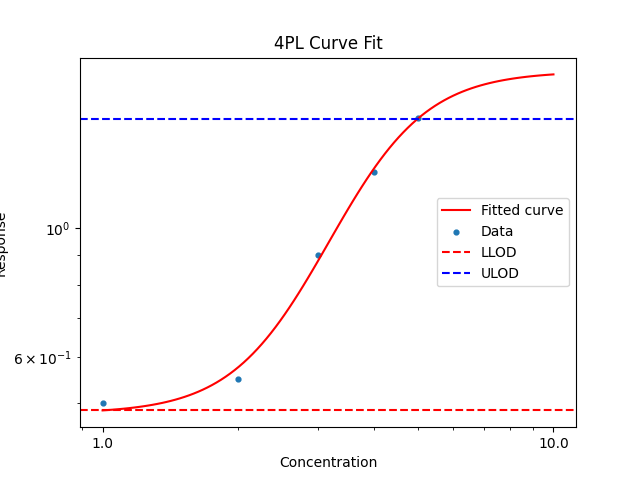
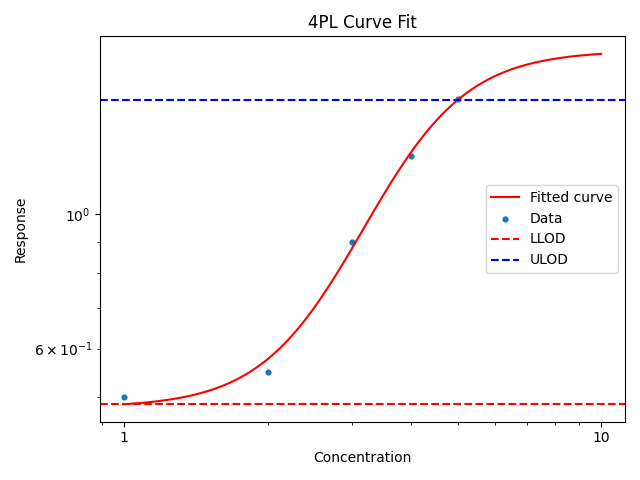
improve plot testing and readme

diff --git a/bio_curve_fit/plotting.py b/bio_curve_fit/plotting.py
@@ -1,5 +1,8 @@
 import io
+from typing import Tuple
 
+import matplotlib
+import matplotlib.figure
 import matplotlib.pyplot as plt
 import numpy as np
 import pandas as pd
@@ -27,7 +30,7 @@ def plot_standard_curve(
 
     Parameters:
     - x_data (iterable): X-axis data points.
-    - y_data (iterable): Y-axis data points corresponding to x_data.
+    - y_data (iterable | None): Y-axis data points corresponding to x_data. Can set this to None if you only want to plot the fitted curve for a given range of x-values specified in `x_data`.
     - fitted_model (BaseStandardCurve): A fitted model instance that provides prediction and LLOD/ULOD values.
     - title (str, optional): Title of the plot. Default is "Standard Curve Fit".
     - x_label (str, optional): Label for the X-axis. Default is "Concentration".
@@ -40,13 +43,70 @@ def plot_standard_curve(
     - plot_kwargs (dict, optional): General keyword arguments for further plot customizations. This can include 'title_kwargs' for title properties and 'savefig_kwargs' for savefig properties, 'formatter' for the x-axis formatter (Default is Log), and 'xscale' and 'yscale' for the plot scale (Default is 'log').
 
     Returns:
-    - bytes: A bytes object containing the plot image in PNG format.
+    - fig, ax: The matplotlib figure and axes objects.
 
     Example Usage:
-    plot_standard_curve(x_data, y_data, fitted_model, show_plot=True, curve_kwargs={'color': 'green', 'linestyle': '--'}, data_kwargs={'color': 'blue', 'marker': 'o'}, llod_kwargs={'color': 'orange'}, ulod_kwargs={'color': 'purple'})
+    fig, ax = plot_standard_curve(x_data, y_data, fitted_model, show_plot=True, curve_kwargs={'color': 'green', 'linestyle': '--'}, data_kwargs={'color': 'blue', 'marker': 'o'}, llod_kwargs={'color': 'orange'}, ulod_kwargs={'color': 'purple'})
+    ax.set_xlim([0, 10])  # Example of additional modification
 
-    This function allows extensive customization of the plot's appearance by adjusting properties of the curve, data points, LLOD line, ULOD line, and overall plot aesthetics through various keyword arguments.
+    This function allows extensive customization of the plot's appearance by adjusting properties of the curve, data points, LLOD line, ULOD line, and overall plot aesthetics through various keyword arguments. For more advanced customization, consider using plot_standard_curve_figure instead, which returns the figure and axes objects for further modification.
     """
+
+    fig, ax = plot_standard_curve_figure(
+        x_data,
+        y_data,
+        fitted_model,
+        title=title,
+        x_label=x_label,
+        y_label=y_label,
+        curve_kwargs=curve_kwargs,
+        data_kwargs=data_kwargs,
+        llod_kwargs=llod_kwargs,
+        ulod_kwargs=ulod_kwargs,
+        **plot_kwargs
+    )
+    if show_plot:
+        plt.show()
+    buf = io.BytesIO()
+    fig.savefig(buf, format="png", **plot_kwargs.get("savefig_kwargs", {}))
+    plt.clf()
+    buf.seek(0)
+    return buf.read()
+
+
+def plot_standard_curve_figure(
+    x_data,
+    y_data,
+    fitted_model: BaseStandardCurve,
+    title="Standard Curve Fit",
+    x_label="Concentration",
+    y_label="Response",
+    curve_kwargs=None,  # kwargs for the fitted curve plot
+    data_kwargs=None,  # kwargs for the data scatter plot
+    llod_kwargs=None,  # kwargs for the LLOD line
+    ulod_kwargs=None,  # kwargs for the ULOD line
+    **plot_kwargs  # kwargs for general plot adjustments
+) -> Tuple[matplotlib.figure.Figure, plt.Axes]:
+    """
+    Same as plot_standard_curve, but returns the figure and axes objects instead of saving the plot to a file
+    for easier customization and further modification.
+
+    Example Usage:
+
+    ```
+    # Add text labels to the data points
+    from adjustText import adjust_text
+
+    fig, ax = plot_standard_curve_figure(x_data, y_data, fitted_model)
+    texts = []
+    for x, y in zip(x_data, y_data):
+        texts.append(ax.text(x, y, f"x={x:.2f}, y={y:.2f})", fontsize=13, ha="right"))
+
+    # Adjust text labels to avoid overlap
+    adjust_text(texts, ax=ax)
+    ```
+    """
+
     # Default keyword argument dictionaries
     if curve_kwargs is None:
         curve_kwargs = {"label": "Fitted curve", "color": "red"}
@@ -57,40 +117,36 @@ def plot_standard_curve(
     if ulod_kwargs is None:
         ulod_kwargs = {"color": "blue", "linestyle": "--", "label": "ULOD"}
 
-    plt.xscale(plot_kwargs.get("xscale", "log"))
-    plt.yscale(plot_kwargs.get("yscale", "log"))
-    data = pd.DataFrame({"x": x_data, "y": y_data})
-    filtered_data = data[data["x"] > 0]
+    fig, ax = plt.subplots()
 
-    epsilon = 0.01
-    x_min = np.log10(max(min(x_data), epsilon))
+    ax.set_xscale(plot_kwargs.get("xscale", "log"))
+    ax.set_yscale(plot_kwargs.get("yscale", "log"))
+
+    EPSILON = 0.01
+    x_min = np.log10(max(min(x_data), EPSILON))
     x_max = max(x_data) * 2
     x = np.logspace(x_min, np.log10(x_max), 100)  # type: ignore
     y_pred = fitted_model.predict(x)
 
-    plt.plot(x, y_pred, **curve_kwargs)
-    plt.scatter(filtered_data["x"], filtered_data["y"], **data_kwargs)
+    ax.plot(x, y_pred, **curve_kwargs)
+    if y_data is not None:
+        data = pd.DataFrame({"x": x_data, "y": y_data})
+        filtered_data = data[data["x"] > 0]
+        ax.scatter(filtered_data["x"], filtered_data["y"], **data_kwargs)
 
     formatter = plot_kwargs.get("formatter", LogFormatter())
-    plt.gca().xaxis.set_major_formatter(formatter)
-    plt.xlabel(x_label)
-    plt.ylabel(y_label)
-    plt.title(title, **plot_kwargs.get("title_kwargs", {}))
+    ax.xaxis.set_major_formatter(formatter)
+    ax.set_xlabel(x_label)
+    ax.set_ylabel(y_label)
+    ax.set_title(title, **plot_kwargs.get("title_kwargs", {}))
 
     llod_response, ulod_response = fitted_model.LLOD_y_, fitted_model.ULOD_y_
     if llod_response is not None:
-        plt.axhline(llod_response, **llod_kwargs)  # type: ignore
+        ax.axhline(llod_response, **llod_kwargs)  # type: ignore
     if ulod_response is not None:
-        plt.axhline(ulod_response, **ulod_kwargs)  # type: ignore
+        ax.axhline(ulod_response, **ulod_kwargs)  # type: ignore
 
-    plt.legend()
-    plt.tight_layout()
+    ax.legend()
+    fig.tight_layout()
 
-    if show_plot:
-        plt.show()
-
-    buf = io.BytesIO()
-    plt.savefig(buf, format="png", **plot_kwargs.get("savefig_kwargs", {}))
-    plt.clf()
-    buf.seek(0)
-    return buf.read()
+    return fig, ax

diff --git a/README.md b/README.md
@@ -54,9 +54,26 @@ plot_standard_curve(standard_concentrations, standard_responses, model, show_plo
 
 ![standard curve](./examples/readme_fit.png)
 
+You can also customize the plot arbitrarily using matplotlib. For example, adding labels to the points:
+
+```python
+from adjustText import adjust_text
+
+fig, ax = plot_standard_curve_figure(standard_concentrations, standard_responses, model)
+texts = []
+for x, y in zip(standard_concentrations, standard_responses):
+	texts.append(ax.text(x, y, f"x={x:.2f}, y={y:.2f})", fontsize=13, ha="right"))
+# Adjust text labels to avoid overlap
+adjust_text(texts, ax=ax)
+```
+
+![standard curve with labels](./examples/readme_fit_labels.png)
+
+
+
 ## Examples
 
-See the [example notebook](./examples/four_pl_logistic/four_pl_fit.ipynb) for more detailed usage.
+See the [example notebooks](./examples/) for more detailed usage.
 
 ## Contributing
 
